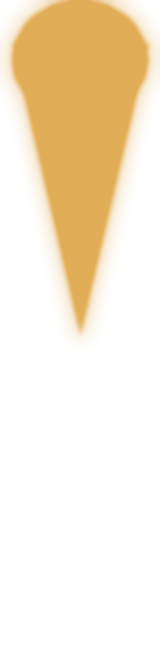
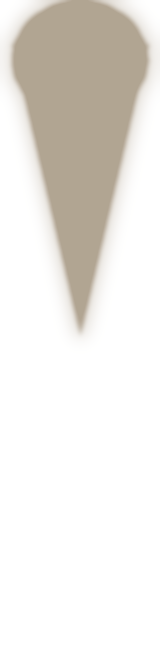
«Гравюра»: подсветка ходов приглушённая — бледная бронза вместо насыщенного жёлтого
Claude-Session: https://claude.ai/code/session_013vq6NREHT7txoK1nXmxN83

Changed region(s): [[0.0625, 0.0, 0.9375, 0.5152]]

diff --git a/index.html b/index.html
@@ -1026,10 +1026,10 @@ function probeFps(){
 }
 // GAME_VERSION — для людей, меняется при крупных обновлениях; APP_VERSION — номер сборки для кэша, растёт при каждой выкладке
 const GAME_VERSION='1.0';
-const APP_VERSION='143';   // совпадает с V в sw.js: номер сборки (имя кэша)
+const APP_VERSION='144';   // совпадает с V в sw.js: номер сборки (имя кэша)
 // AV — короткие хеши содержимого картинок (их пишет tools/stamp.py): адрес меняется, только когда меняется сам файл,
 // поэтому после обновления заново качается лишь то, что изменилось
-/*AV*/const AV={"boards/ararat-thumb.webp":"72ff05c2","boards/ararat.webp":"7c44b1ce","boards/ck-beech.png":"ef00f4f8","boards/ck-bronze.png":"db6b57b9","boards/ck-copper.png":"761c282a","boards/ck-gold.png":"87fddeef","boards/ck-ivory.png":"372b72ce","boards/ck-khatam.png":"8a67a596","boards/ck-khatamd.png":"fc76598b","boards/ck-onyx.png":"bfb41b3a","boards/ck-pearl.png":"83aaf841","boards/ck-pomegranate.png":"73a5236d","boards/ck-silver.png":"18222740","boards/ck-walnut.png":"1857427e","boards/ckside-beech.png":"2e4a01b1","boards/ckside-bronze.png":"700fbb0d","boards/ckside-copper.png":"54a53742","boards/ckside-gold.png":"f3c3b036","boards/ckside-ivory.png":"cce1b2d9","boards/ckside-khatam.png":"ba9fea77","boards/ckside-khatamd.png":"bb2cd930","boards/ckside-onyx.png":"3695f6bf","boards/ckside-pearl.png":"d9c5e6f3","boards/ckside-pomegranate.png":"79fe0975","boards/ckside-silver.png":"6d16c666","boards/ckside-walnut.png":"bc0fa647","boards/die-1.png":"2d6046dd","boards/die-2.png":"dba1ef51","boards/die-3.png":"c4754c62","boards/die-4.png":"c26495e1","boards/die-5.png":"49661381","boards/die-6.png":"3d46b683","boards/die-amber-1.png":"105d06f3","boards/die-amber-2.png":"f7695264","boards/die-amber-3.png":"518fcc5b","boards/die-amber-4.png":"82e42d65","boards/die-amber-5.png":"a53a1fed","boards/die-amber-6.png":"6114a46b","boards/die-gold-1.png":"606f1c7a","boards/die-gold-2.png":"68eb7219","boards/die-gold-3.png":"4abf64c2","boards/die-gold-4.png":"7ff8a963","boards/die-gold-5.png":"9f589a63","boards/die-gold-6.png":"f67c180d","boards/die-wood-1.png":"f9fecd23","boards/die-wood-2.png":"dad9e71b","boards/die-wood-3.png":"ebe40557","boards/die-wood-4.png":"f8c4f6d2","boards/die-wood-5.png":"239c202c","boards/die-wood-6.png":"ea05a4a3","boards/glass-thumb.webp":"5db12bdb","boards/glass.webp":"3fe1cddb","boards/goldrev-med-l.webp":"875c719a","boards/goldrev-med-r.webp":"beae367a","boards/goldrev-thumb.webp":"1b2ad914","boards/goldrev.webp":"898ad659","boards/gravura-lid.webp":"ea96f494","boards/gravura-thumb.webp":"8ccf7340","boards/gravura.webp":"8d2f6ae3","boards/intro-rev-w.webp":"c1e7a4bf","boards/intro-rev.webp":"9627dbfd","boards/leafshade.webp":"8666bd89","boards/lid-plain.webp":"32dbab24","boards/lid.webp":"47f4a845","boards/maple.webp":"c7e0d43c","boards/night-thumb.webp":"61a42599","boards/night.webp":"96cd9880","boards/plaque.webp":"6c60c0b6","boards/pomegranate-thumb.webp":"d5574e56","boards/pomegranate.webp":"a89189f5","boards/prop-beads.webp":"01fd0477","boards/prop-cup.webp":"67e8e539","boards/prop-pack.webp":"a1f55e5d","boards/pt-ararat-long.png":"b706af0c","boards/pt-ararat-short.png":"0d9bdbb6","boards/pt-glass-long.png":"2474d3b3","boards/pt-glass-short.png":"2474d3b3","boards/pt-goldrev-long.png":"b706af0c","boards/pt-goldrev-short.png":"0d9bdbb6","boards/pt-gravura-long.png":"2b63381b","boards/pt-gravura-short.png":"2b63381b","boards/pt-night-long.png":"c9576df0","boards/pt-night-short.png":"c9576df0","boards/pt-pomegranate-long.png":"b706af0c","boards/pt-pomegranate-short.png":"0d9bdbb6","boards/pt-sevan-long.png":"b706af0c","boards/pt-sevan-short.png":"0d9bdbb6","boards/pt-yerevan-long.png":"f28ec383","boards/pt-yerevan-short.png":"78fa0ed8","boards/sevan-thumb.webp":"35db3522","boards/sevan.webp":"56ec51be","boards/table.webp":"d353fc6c","boards/walnut-plank.webp":"3f05219c","boards/yerevan-thumb.webp":"4817779b","boards/yerevan.webp":"64e36c39"};/*/AV*/
+/*AV*/const AV={"boards/ararat-thumb.webp":"72ff05c2","boards/ararat.webp":"7c44b1ce","boards/ck-beech.png":"ef00f4f8","boards/ck-bronze.png":"db6b57b9","boards/ck-copper.png":"761c282a","boards/ck-gold.png":"87fddeef","boards/ck-ivory.png":"372b72ce","boards/ck-khatam.png":"8a67a596","boards/ck-khatamd.png":"fc76598b","boards/ck-onyx.png":"bfb41b3a","boards/ck-pearl.png":"83aaf841","boards/ck-pomegranate.png":"73a5236d","boards/ck-silver.png":"18222740","boards/ck-walnut.png":"1857427e","boards/ckside-beech.png":"2e4a01b1","boards/ckside-bronze.png":"700fbb0d","boards/ckside-copper.png":"54a53742","boards/ckside-gold.png":"f3c3b036","boards/ckside-ivory.png":"cce1b2d9","boards/ckside-khatam.png":"ba9fea77","boards/ckside-khatamd.png":"bb2cd930","boards/ckside-onyx.png":"3695f6bf","boards/ckside-pearl.png":"d9c5e6f3","boards/ckside-pomegranate.png":"79fe0975","boards/ckside-silver.png":"6d16c666","boards/ckside-walnut.png":"bc0fa647","boards/die-1.png":"2d6046dd","boards/die-2.png":"dba1ef51","boards/die-3.png":"c4754c62","boards/die-4.png":"c26495e1","boards/die-5.png":"49661381","boards/die-6.png":"3d46b683","boards/die-amber-1.png":"105d06f3","boards/die-amber-2.png":"f7695264","boards/die-amber-3.png":"518fcc5b","boards/die-amber-4.png":"82e42d65","boards/die-amber-5.png":"a53a1fed","boards/die-amber-6.png":"6114a46b","boards/die-gold-1.png":"606f1c7a","boards/die-gold-2.png":"68eb7219","boards/die-gold-3.png":"4abf64c2","boards/die-gold-4.png":"7ff8a963","boards/die-gold-5.png":"9f589a63","boards/die-gold-6.png":"f67c180d","boards/die-wood-1.png":"f9fecd23","boards/die-wood-2.png":"dad9e71b","boards/die-wood-3.png":"ebe40557","boards/die-wood-4.png":"f8c4f6d2","boards/die-wood-5.png":"239c202c","boards/die-wood-6.png":"ea05a4a3","boards/glass-thumb.webp":"5db12bdb","boards/glass.webp":"3fe1cddb","boards/goldrev-med-l.webp":"875c719a","boards/goldrev-med-r.webp":"beae367a","boards/goldrev-thumb.webp":"1b2ad914","boards/goldrev.webp":"898ad659","boards/gravura-lid.webp":"ea96f494","boards/gravura-thumb.webp":"8ccf7340","boards/gravura.webp":"8d2f6ae3","boards/intro-rev-w.webp":"c1e7a4bf","boards/intro-rev.webp":"9627dbfd","boards/leafshade.webp":"8666bd89","boards/lid-plain.webp":"32dbab24","boards/lid.webp":"47f4a845","boards/maple.webp":"c7e0d43c","boards/night-thumb.webp":"61a42599","boards/night.webp":"96cd9880","boards/plaque.webp":"6c60c0b6","boards/pomegranate-thumb.webp":"d5574e56","boards/pomegranate.webp":"a89189f5","boards/prop-beads.webp":"01fd0477","boards/prop-cup.webp":"67e8e539","boards/prop-pack.webp":"a1f55e5d","boards/pt-ararat-long.png":"b706af0c","boards/pt-ararat-short.png":"0d9bdbb6","boards/pt-glass-long.png":"2474d3b3","boards/pt-glass-short.png":"2474d3b3","boards/pt-goldrev-long.png":"b706af0c","boards/pt-goldrev-short.png":"0d9bdbb6","boards/pt-gravura-long.png":"e2440a04","boards/pt-gravura-short.png":"e2440a04","boards/pt-night-long.png":"c9576df0","boards/pt-night-short.png":"c9576df0","boards/pt-pomegranate-long.png":"b706af0c","boards/pt-pomegranate-short.png":"0d9bdbb6","boards/pt-sevan-long.png":"b706af0c","boards/pt-sevan-short.png":"0d9bdbb6","boards/pt-yerevan-long.png":"f28ec383","boards/pt-yerevan-short.png":"78fa0ed8","boards/sevan-thumb.webp":"35db3522","boards/sevan.webp":"56ec51be","boards/table.webp":"d353fc6c","boards/walnut-plank.webp":"3f05219c","boards/yerevan-thumb.webp":"4817779b","boards/yerevan.webp":"64e36c39"};/*/AV*/
 const av=p=>p+'?v='+(AV[p]||APP_VERSION);
 const NS='http://www.w3.org/2000/svg';
 const f2=v=>(+v).toFixed(1);
@@ -1101,7 +1101,7 @@ const SKINS={
   yerevan:{name:'Армения',ck:{w:CK.beech,b:CK.walnut},tgt:'#fff1cf'},
   pomegranate:{name:'Гранат',ck:{w:CK.beech,b:CK.walnut},tgt:'#fff1cf'},
   sevan:{name:'Севан',ck:{w:CK.beech,b:CK.walnut},tgt:'#ffffff'},
-  gravura:{name:'Гравюра',ck:{w:CK.khatam,b:CK.khatamd},tgt:'#b8862e'},   // белый акрил с гравировкой — по настоящим нардам с фото
+  gravura:{name:'Гравюра',ck:{w:CK.khatam,b:CK.khatamd},tgt:'#9c8f7a'},   // белый акрил с гравировкой — по настоящим нардам с фото
   goldrev:{name:'Золотой аревахач',ck:{w:CK.pearl,b:CK.walnut},tgt:'#ffe7a8'}   // награда: задача дня 30 дней подряд
 };
 const goldBoardOpen=()=>{ try{ return !!JSON.parse(localStorage.getItem('nardy-stats-v1')||'{}').ach?.puz30; }catch(e){ return false; } };

diff --git a/sw.js b/sw.js
@@ -1,8 +1,8 @@
 // Офлайн-кэш: страница, доски, звуки и шрифты кэшируются при установке.
-const V = '143';                 // = APP_VERSION в index.html
+const V = '144';                 // = APP_VERSION в index.html
 const VERSION = 'nardy-v' + V;
 // хеши содержимого картинок — те же, что AV в index.html (пишет tools/stamp.py)
-/*AV*/const AV={"boards/ararat-thumb.webp":"72ff05c2","boards/ararat.webp":"7c44b1ce","boards/ck-beech.png":"ef00f4f8","boards/ck-bronze.png":"db6b57b9","boards/ck-copper.png":"761c282a","boards/ck-gold.png":"87fddeef","boards/ck-ivory.png":"372b72ce","boards/ck-khatam.png":"8a67a596","boards/ck-khatamd.png":"fc76598b","boards/ck-onyx.png":"bfb41b3a","boards/ck-pearl.png":"83aaf841","boards/ck-pomegranate.png":"73a5236d","boards/ck-silver.png":"18222740","boards/ck-walnut.png":"1857427e","boards/ckside-beech.png":"2e4a01b1","boards/ckside-bronze.png":"700fbb0d","boards/ckside-copper.png":"54a53742","boards/ckside-gold.png":"f3c3b036","boards/ckside-ivory.png":"cce1b2d9","boards/ckside-khatam.png":"ba9fea77","boards/ckside-khatamd.png":"bb2cd930","boards/ckside-onyx.png":"3695f6bf","boards/ckside-pearl.png":"d9c5e6f3","boards/ckside-pomegranate.png":"79fe0975","boards/ckside-silver.png":"6d16c666","boards/ckside-walnut.png":"bc0fa647","boards/die-1.png":"2d6046dd","boards/die-2.png":"dba1ef51","boards/die-3.png":"c4754c62","boards/die-4.png":"c26495e1","boards/die-5.png":"49661381","boards/die-6.png":"3d46b683","boards/die-amber-1.png":"105d06f3","boards/die-amber-2.png":"f7695264","boards/die-amber-3.png":"518fcc5b","boards/die-amber-4.png":"82e42d65","boards/die-amber-5.png":"a53a1fed","boards/die-amber-6.png":"6114a46b","boards/die-gold-1.png":"606f1c7a","boards/die-gold-2.png":"68eb7219","boards/die-gold-3.png":"4abf64c2","boards/die-gold-4.png":"7ff8a963","boards/die-gold-5.png":"9f589a63","boards/die-gold-6.png":"f67c180d","boards/die-wood-1.png":"f9fecd23","boards/die-wood-2.png":"dad9e71b","boards/die-wood-3.png":"ebe40557","boards/die-wood-4.png":"f8c4f6d2","boards/die-wood-5.png":"239c202c","boards/die-wood-6.png":"ea05a4a3","boards/glass-thumb.webp":"5db12bdb","boards/glass.webp":"3fe1cddb","boards/goldrev-med-l.webp":"875c719a","boards/goldrev-med-r.webp":"beae367a","boards/goldrev-thumb.webp":"1b2ad914","boards/goldrev.webp":"898ad659","boards/gravura-lid.webp":"ea96f494","boards/gravura-thumb.webp":"8ccf7340","boards/gravura.webp":"8d2f6ae3","boards/intro-rev-w.webp":"c1e7a4bf","boards/intro-rev.webp":"9627dbfd","boards/leafshade.webp":"8666bd89","boards/lid-plain.webp":"32dbab24","boards/lid.webp":"47f4a845","boards/maple.webp":"c7e0d43c","boards/night-thumb.webp":"61a42599","boards/night.webp":"96cd9880","boards/plaque.webp":"6c60c0b6","boards/pomegranate-thumb.webp":"d5574e56","boards/pomegranate.webp":"a89189f5","boards/prop-beads.webp":"01fd0477","boards/prop-cup.webp":"67e8e539","boards/prop-pack.webp":"a1f55e5d","boards/pt-ararat-long.png":"b706af0c","boards/pt-ararat-short.png":"0d9bdbb6","boards/pt-glass-long.png":"2474d3b3","boards/pt-glass-short.png":"2474d3b3","boards/pt-goldrev-long.png":"b706af0c","boards/pt-goldrev-short.png":"0d9bdbb6","boards/pt-gravura-long.png":"2b63381b","boards/pt-gravura-short.png":"2b63381b","boards/pt-night-long.png":"c9576df0","boards/pt-night-short.png":"c9576df0","boards/pt-pomegranate-long.png":"b706af0c","boards/pt-pomegranate-short.png":"0d9bdbb6","boards/pt-sevan-long.png":"b706af0c","boards/pt-sevan-short.png":"0d9bdbb6","boards/pt-yerevan-long.png":"f28ec383","boards/pt-yerevan-short.png":"78fa0ed8","boards/sevan-thumb.webp":"35db3522","boards/sevan.webp":"56ec51be","boards/table.webp":"d353fc6c","boards/walnut-plank.webp":"3f05219c","boards/yerevan-thumb.webp":"4817779b","boards/yerevan.webp":"64e36c39"};/*/AV*/
+/*AV*/const AV={"boards/ararat-thumb.webp":"72ff05c2","boards/ararat.webp":"7c44b1ce","boards/ck-beech.png":"ef00f4f8","boards/ck-bronze.png":"db6b57b9","boards/ck-copper.png":"761c282a","boards/ck-gold.png":"87fddeef","boards/ck-ivory.png":"372b72ce","boards/ck-khatam.png":"8a67a596","boards/ck-khatamd.png":"fc76598b","boards/ck-onyx.png":"bfb41b3a","boards/ck-pearl.png":"83aaf841","boards/ck-pomegranate.png":"73a5236d","boards/ck-silver.png":"18222740","boards/ck-walnut.png":"1857427e","boards/ckside-beech.png":"2e4a01b1","boards/ckside-bronze.png":"700fbb0d","boards/ckside-copper.png":"54a53742","boards/ckside-gold.png":"f3c3b036","boards/ckside-ivory.png":"cce1b2d9","boards/ckside-khatam.png":"ba9fea77","boards/ckside-khatamd.png":"bb2cd930","boards/ckside-onyx.png":"3695f6bf","boards/ckside-pearl.png":"d9c5e6f3","boards/ckside-pomegranate.png":"79fe0975","boards/ckside-silver.png":"6d16c666","boards/ckside-walnut.png":"bc0fa647","boards/die-1.png":"2d6046dd","boards/die-2.png":"dba1ef51","boards/die-3.png":"c4754c62","boards/die-4.png":"c26495e1","boards/die-5.png":"49661381","boards/die-6.png":"3d46b683","boards/die-amber-1.png":"105d06f3","boards/die-amber-2.png":"f7695264","boards/die-amber-3.png":"518fcc5b","boards/die-amber-4.png":"82e42d65","boards/die-amber-5.png":"a53a1fed","boards/die-amber-6.png":"6114a46b","boards/die-gold-1.png":"606f1c7a","boards/die-gold-2.png":"68eb7219","boards/die-gold-3.png":"4abf64c2","boards/die-gold-4.png":"7ff8a963","boards/die-gold-5.png":"9f589a63","boards/die-gold-6.png":"f67c180d","boards/die-wood-1.png":"f9fecd23","boards/die-wood-2.png":"dad9e71b","boards/die-wood-3.png":"ebe40557","boards/die-wood-4.png":"f8c4f6d2","boards/die-wood-5.png":"239c202c","boards/die-wood-6.png":"ea05a4a3","boards/glass-thumb.webp":"5db12bdb","boards/glass.webp":"3fe1cddb","boards/goldrev-med-l.webp":"875c719a","boards/goldrev-med-r.webp":"beae367a","boards/goldrev-thumb.webp":"1b2ad914","boards/goldrev.webp":"898ad659","boards/gravura-lid.webp":"ea96f494","boards/gravura-thumb.webp":"8ccf7340","boards/gravura.webp":"8d2f6ae3","boards/intro-rev-w.webp":"c1e7a4bf","boards/intro-rev.webp":"9627dbfd","boards/leafshade.webp":"8666bd89","boards/lid-plain.webp":"32dbab24","boards/lid.webp":"47f4a845","boards/maple.webp":"c7e0d43c","boards/night-thumb.webp":"61a42599","boards/night.webp":"96cd9880","boards/plaque.webp":"6c60c0b6","boards/pomegranate-thumb.webp":"d5574e56","boards/pomegranate.webp":"a89189f5","boards/prop-beads.webp":"01fd0477","boards/prop-cup.webp":"67e8e539","boards/prop-pack.webp":"a1f55e5d","boards/pt-ararat-long.png":"b706af0c","boards/pt-ararat-short.png":"0d9bdbb6","boards/pt-glass-long.png":"2474d3b3","boards/pt-glass-short.png":"2474d3b3","boards/pt-goldrev-long.png":"b706af0c","boards/pt-goldrev-short.png":"0d9bdbb6","boards/pt-gravura-long.png":"e2440a04","boards/pt-gravura-short.png":"e2440a04","boards/pt-night-long.png":"c9576df0","boards/pt-night-short.png":"c9576df0","boards/pt-pomegranate-long.png":"b706af0c","boards/pt-pomegranate-short.png":"0d9bdbb6","boards/pt-sevan-long.png":"b706af0c","boards/pt-sevan-short.png":"0d9bdbb6","boards/pt-yerevan-long.png":"f28ec383","boards/pt-yerevan-short.png":"78fa0ed8","boards/sevan-thumb.webp":"35db3522","boards/sevan.webp":"56ec51be","boards/table.webp":"d353fc6c","boards/walnut-plank.webp":"3f05219c","boards/yerevan-thumb.webp":"4817779b","boards/yerevan.webp":"64e36c39"};/*/AV*/
 const av = p => AV[p] ? p + '?v=' + AV[p] : p;
 const SHELL = [
   './',

diff --git a/tools/point_masks.py b/tools/point_masks.py
@@ -41,7 +41,7 @@ SHAPES = {
 }
 
 
-GLOW_COL = {'gravura': (.86, .60, .18)}                 # на белой доске белое свечение не видно — золотистое
+GLOW_COL = {'gravura': (.62, .56, .47)}                 # на белой доске белое свечение не видно — золотистое
 
 
 def glow(mask, col_=(1.0, .97, .9)):
